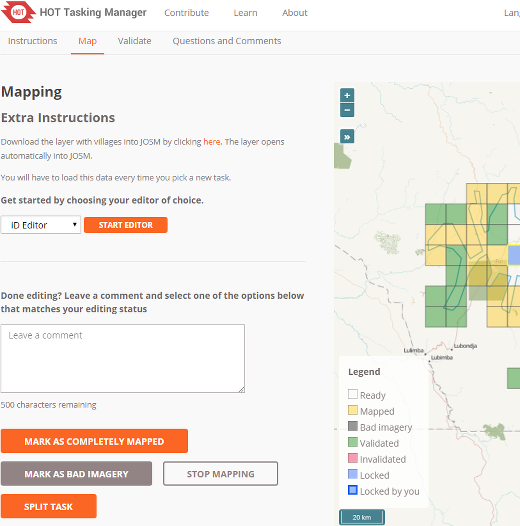
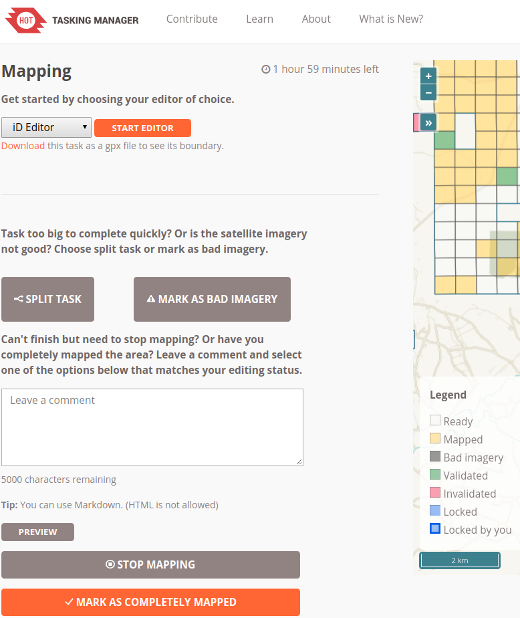
getting the TM3 guide up-to-date, part 1

diff --git a/_posts/0500-10-23-tasking-manager3_en.md b/_posts/0500-10-23-tasking-manager3_en.md
@@ -146,13 +146,13 @@ Everything you need to know about the project is here! At the top is a full desc
 Below the description the screen is divided into a left and right section. The left section is a tabbed panel with tabs for "Instructions", "Map", "Validate" and "Questions and Comments". On the right is a map of the project and the individual tasks for mapping.
 
 - The uncolored tasks are ready and available for mapping
-- Pink areas of the map indicate higher priority areas
+- Pink grid squares have been invalidated by a validator and are again available for mapping
+- Red areas of the map indicate higher priority areas
 - Yellow/Gold grid squares have had the first pass of mapping completed and are ready for validation
-- A yellow border indicates the task selected by you
-- Blue Tasks are currently being worked on by another mapper 
+- Blue Tasks are currently being worked on
+- A dark blue border indicates the task selected by you
 - Green Tasks have had the 2nd pass of mapping completed and the mapping has been "validated"
 - Dark grey tasks have been looked at by a mapper and marked as not having acceptable imagery for mapping 
-- The blue line normally visible in the perimeter squares of a project indicates the border of the project. This border normally follows the available imagery, an administrative boundary, etc, so may appear as an unusual shape. Although mapping may be completed outside this border, it is not a requirement and will not be considered by validators.  
 
 
 #### Instructions Tab
@@ -179,7 +179,7 @@ The summary contains a list of mappers who have completed at least one task with
 
 A log of all the comments left on individual tasks is at the bottom of the page. These are comments left on tasks and should not be confused with the "Questions and Comments" tab which are general questions and comments about the overall project.
 
-You can return the main project contribution page by clicking on the project title on the Activity and Stats page.
+You can return to the main project contribution page by clicking on the project title on the Activity and Stats page.
 
 #### Map Tab  
 
@@ -261,7 +261,7 @@ For the process to work most effectively, mappers need to mark tasks as "Mapped"
 When you have finished editing and think that the task is complete, save any remaining edits with your editing programme, then return to the Tasking Manager.  
 
 + Add comments to the box detailing what you achieved and more importantly, what you are not certain of. For example; "Complete as far as I can see, but there is cloud covering the top right corner of the task & I cannot see to trace this area".  
-+ Click on the "Mark as Mapped" button, and your work is ready for review.  
++ Click on the "Mark as Completely Mapped" button, and your work is ready for review.  
 
 ##### Marking a Task as Bad Imagery
 
@@ -296,25 +296,20 @@ If you need to send a message, such as an email or an IRC message, and you are q
 
 ## Getting help 
 
+### E-Mail
+
+For questions which might require a little research to answer or more thorough explanations, usually the best channel is to write to mapper-support@hotosm.org
+
 ### Live text based help
 
-From the Learn page of the Tasking Manager:  
-1. Click on **OSM HOT IRC Channel #hot**  
-2. Enter a username (your OSM username?), or use the preset characters  
-3. At the bottom of the dropdown list select **hot**  
-
-- To the right of the screen is a list of users that are online now.  
-- Type your message in the box at the bottom left of the screen (this is sometimes temporarily obscured by other text, but this will disappear as you select the box.  
-- To direct a message to a particular individual, include their username from the list on the right within your message. Type, then use the return key to submit your comment. The system is 'live' so wait for an answer - your username will often be used in the reply to show you the comment is directed to you. You will normally receive a reply within a few seconds, so please wait.  
-- An alternative simple system can be found at [kiwiIRC.com](https://kiwiirc.com/client/irc.oftc.net/hot)  
-- Further info on using IRC with OpenStreetMap may be found at [OSM Wiki IRC](http://wiki.openstreetmap.org/wiki/Irc)  
-- Alternatively use an IRC client of your choice (Server=irc.oftc.net, and channel=#hot)  
+1. Sign up at slack.hotosm.org. This will require filling in a form and might take a while to be accepted.
+2. Join the mapper-support channel
 
 ### Leaving a Project question / comment / contacting the Project creator
 
 Using the "Comments" tab for the project you can see other users' questions and comments and leave one of your own. You can also click the "Contact Project Manager" link and that will automatically direct your comment/question to the project creator. 
 
-All comments are public and it is not real time, live chat, use the IRC option above for realtime chat.
+All comments are public and it is not real time, live chat, use the Slack option above for realtime chat.
 
 ![TM comments][]
 
